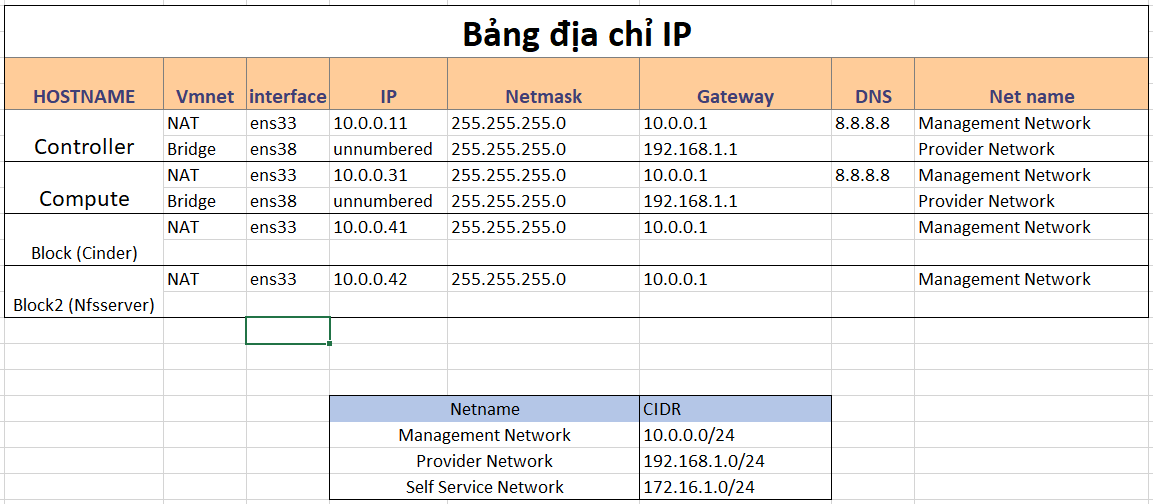
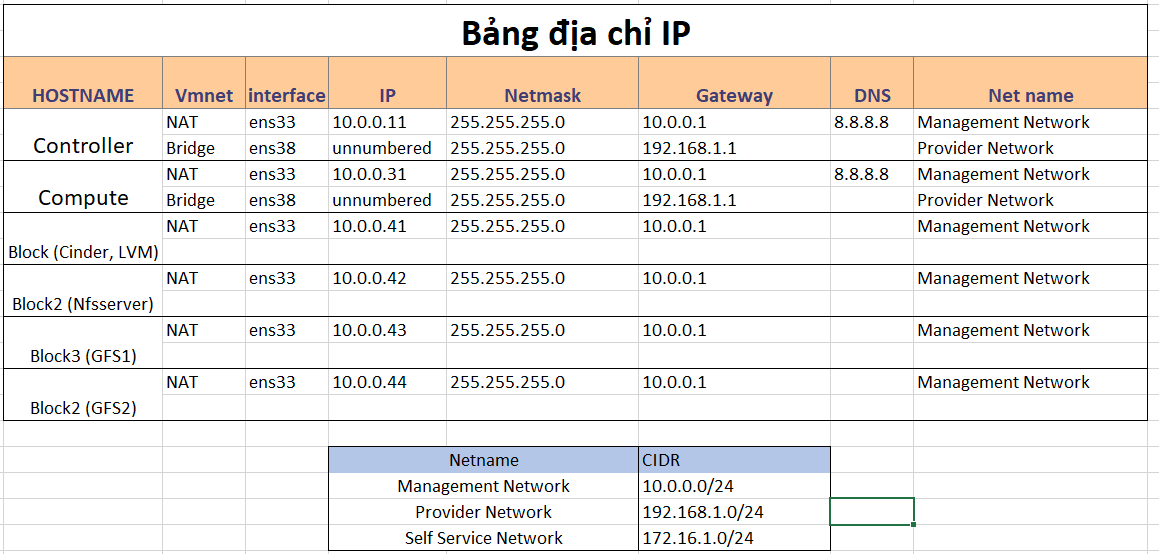
new file:   OpenStack/Docs/II.6.6. Multiple Storage back end.md 	modified:   "OpenStack/Images/III. D\341\273\261ng Openstack Stein/New Microsoft Excel Worksheet.xlsx" 	modified:   "OpenStack/Images/III. D\341\273\261ng Openstack Stein/Overview/3.png" 	modified:   OpenStack/README.md

Changed region(s): [[0.0, 0.0, 1.0, 1.0]]

diff --git a/OpenStack/Docs/II.6.6. Multiple Storage back end.md b/OpenStack/Docs/II.6.6. Multiple Storage back end.md
@@ -1,0 +1,225 @@
+# Multiple Storage back end
+
+# I. Mô hình
+<img src = "../Images/III. Dựng Openstack Stein/Overview/3.png">  
+
+<img src = "../Images/III. Dựng Openstack Stein/Overview/4.png">  
+
+# II. Cài đặt.
+-   Lưu ý : Trên mô hình phải được cài đặt sẵn OpenStack và Cinder, nếu chưa có tham khảo tại các phần trước.
+-   Với mô hình trên LVM đã được cài đặt và thiết lập trước đó, ở bài này chỉ giới thiệu về glusterfs và nfs.
+- NHỚ SỬA TẤT CẢ FILE `/etc/hosts` TRÊN TẤT CẢ CÁC NODE
+- 
+## II.1. Cấu hình trên node Block (Cinder)
+
+-   Cài đặt các gói  `nfs-common`  và  `glusterfs-client`  :
+	```sh
+	apt-get -y install nfs-common glusterfs-client 
+	```
+-   Dùng trình soạn thảo  `vi`  mở file cinder config `vi /etc/cinder/cinder.conf ` :
+
+	- Tại section [default] tìm và sửa dòng  `enabled_backends`  như sau :
+		```sh
+		enabled_backends = lvm,nfs,glusterfs
+		```
+	- Thêm section nfs với nội dung như sau :
+		```sh
+		[nfs]
+		volume_driver = cinder.volume.drivers.nfs.NfsDriver
+		volume_backend_name = NFS
+		nfs_shares_config = /etc/cinder/nfs_shares
+		nfs_mount_point_base = $state_path/mnt_nfs 
+		```
+		
+	- Thêm section [glusterfs] với nội dung như sau :
+		```sh
+		[glusterfs]
+		volume_driver = cinder.volume.drivers.glusterfs.GlusterfsDriver
+		volume_backend_name = GlusterFS
+		glusterfs_shares_config = /etc/cinder/glusterfs_shares
+		glusterfs_mount_point_base = $state_path/mnt_glusterfs
+		```
+-   Dùng trình soạn thảo  `vi`  mở file  `/etc/cinder/glusterfs_shares` thêm vào nội dung :
+	```sh
+	# create new : specify GlusterFS volumes
+
+	block3:/dang_gfs_shares
+
+	# testvol2 là trên của volume mà chúng ta sẽ tạo tạo GFS server.
+	```
+- **Tạo file `nfs_shares` trong `/etc/cinder` và ghi như sau. Đây là vị trí thư mục mà chúng ta sẽ share khi cấu hình NFS.:**
+	```sh
+	block2:/dang_nfs_shares
+	```  
+
+- **Gán quyền cho file `nfs_shares`**
+	```sh
+	# chown root:cinder /etc/cinder/nfs_shares
+	```  
+	```sh
+	# chmod 0640 /etc/cinder/nfs_shares
+	```  
+- **Gán quyền cho file `glusterfs_shares`**
+	```sh
+	# chown root:cinder /etc/cinder/glusterfs_shares
+	```  
+	```sh
+	# chmod 0640 /etc/cinder/glusterfs_shares
+	```  
+- **Restart lại dịch vụ**
+	```sh
+	service cinder-volume restart
+	```  
+
+## II.2. Cấu hình trên node Compute
+- **Cài đặt nfs và glusterfs**
+	```sh
+	apt-get -y install nfs-common glusterfs-client
+	```  
+- **Sửa file `/etc/nova/nova.conf`, thêm 2 dòng sau:**
+	```sh
+	osapi_volume_listen = 0.0.0.0
+	volume_api_class = nova.volume.cinder.API
+	```  
+- **Restart dịch vụ**
+	```sh
+	service nova-compute restart
+	```  
+## II.3 . Cấu hình trên Node gfs1 và gfs2 (thực hiện tương tự) 
+- **Chỉnh sửa file `/etc/hosts` thêm phân giải tên miền**
+- **Phần vùng ổ cứng**
+	```sh
+	fdisk /dev/sdb
+	```  
+	<img src = "../Images/II.6.5. Cấu hình Nfs Storage Backend/5.png">  
+- **Format phân vùng vừa tạo với định dạng xfs:**
+	```sh
+	mkfs.xfs /dev/sdb1
+	```  
+	<img src = "../Images/II.6.5. Cấu hình Nfs Storage Backend/6.png">  
+- **Mount partition vào thư mục /dang_gfs_shares  và tạo thư mục brick1:**
+	```sh
+	mount /dev/sdb1 /dang_gfs_shares && mkdir -p /dang_gfs_shares/brick1
+	```  
+- **Cài đặt `nfs server`**
+	```sh
+	apt-get -y install glusterfs-server
+	```  
+- **Sửa file `/etc/exports` cho phép mount thư mục /dang_gfs_shares đến dải 10.0.0.0/24**
+	```sh
+	/dang_gfs_shares 10.10.10.0/24(rw,no_root_squash)
+	```  
+- **Sửa file `/etc/fstab` để tự động mount mỗi lần mở máy**
+	```sh
+	/dev/sdb1 /dang_gfs_shares xfs defaults 0 0
+	```  
+### II.3.1. Tiếp tục thực hiện trên gfs2
+
+-   Tạo 1 pool storage với Server gfs1:
+	```sh
+	gluster peer probe block3
+	```
+-   Kiểm tra trạng thái của gluster pool
+	```sh
+	gluster peer status
+	```
+-   Khởi tạo volume :
+	```sh
+	gluster  volume create dang_gfs_shares replica 2 transport tcp  block3:/dang_gfs_shares/brick1  block 4:/dang_gfs_shares/brick1
+	```
+-   Start volume :
+	```sh
+	gluster volume start dang_gfs_shares
+	```  
+
+## II.4. Cấu hình trên Block2 node (Nfs)
+- **Chỉnh sửa file `/etc/hosts`**
+- **Phần vùng ổ cứng**
+	```sh
+	fdisk /dev/sdb
+	```  
+	<img src = "../Images/II.6.5. Cấu hình Nfs Storage Backend/5.png">  
+- **Format phân vùng vừa tạo với định dạng xfs:**
+	```sh
+	mkfs.xfs /dev/sdb1
+	```  
+	<img src = "../Images/II.6.5. Cấu hình Nfs Storage Backend/6.png">  
+- **Mount partition vào thư mục /dang_nfs_shares :**
+	```sh
+	mount /dev/sdb1 /dang_nfs_shares
+	```  
+- **Cài đặt `nfs server`**
+	```sh
+	apt-get -y install nfs-kernel-server
+	```  
+- **Sửa file `/etc/exports` cho phép mount thư mục /dang_nfs_shares đến dải 10.0.0.0/24**
+	```sh
+	/dang_nfs_shares 10.10.10.0/24(rw,no_root_squash)
+	```  
+	<img src = "../Images/II.6.5. Cấu hình Nfs Storage Backend/7.png">  
+- **Sửa file `/etc/fstab` để tự động mount mỗi lần mở máy**
+	```sh
+	/dev/sdb1 /dang_nfs_shares xfs defaults 0 0
+	```  
+	<img src = "../Images/II.6.5. Cấu hình Nfs Storage Backend/8.png">  
+- **Khởi động lài dịch vụ**
+	```sh
+	/etc/init.d/nfs-kernel-server restart
+   ```
+
+# III. Kiểm tra cấu hình
+# III.1. Kiểm tra cấu hình NFS
+- **Trên Node Block. kiểm tra thử xem đã nhận thư mục được share chưa**
+	```sh
+	df -h
+	```  
+	<img src = "../Images/II.6.5. Cấu hình Nfs Storage Backend/9.png">  
+- **Trên node Controller, kiểm tra các dịch vụ hoạt động tốt chưa**
+	```sh
+	openstack volume service list
+	```  
+	<img src = "../Images/II.6.5. Cấu hình Nfs Storage Backend/3.png">  
+
+- **Trên Node controller, tạo 1 volume type có tên là `nfstype`**
+	```sh
+	openstack volume type create nfstype
+	```  
+	<img src = "../Images/II.6.5. Cấu hình Nfs Storage Backend/1.png">  
+
+- **Set backend cho `nfstype` là dùng backend `nfs` có tên mà ta cấu hình ở trên là `nfsbackend`**
+	```sh
+	# cinder type-key nfstype set volume_backend_name=nfsbackend
+	```  
+	<img src = "../Images/II.6.5. Cấu hình Nfs Storage Backend/2.png">  
+- **Tạo 1 Volume có tên là `nfsvolume` dùng backend là `nfs` có type là `nfstype`**
+	```sh
+	# cinder create --volume_type nfstype --display_name nfsvolume 1
+	```  
+	<img src = "../Images/II.6.5. Cấu hình Nfs Storage Backend/4.png">  
+- **Xem thông tin volume vừa tạo trên node controller**
+	```sh
+	openstack volume list
+	```  
+	<img src = "../Images/II.6.5. Cấu hình Nfs Storage Backend/10.png">  
+	
+- **Để chi tiết hơn, ta vào Node Block2 (NFS), ls vào folder share (dang_nfs_shares) và xem volume vừa tạo ra có hay chưa.**
+	<img src = "../Images/II.6.5. Cấu hình Nfs Storage Backend/11.png">  
+
+## III.2. Kiểm tra cấu hình GFS
+- **Trên Node Block3 và 4. kiểm tra thử xem đã nhận thư mục được share chưa**
+	```sh
+	df -h
+	```  
+- **Trên node Controller, kiểm tra các dịch vụ hoạt động tốt chưa**
+	```sh
+	openstack volume service list
+	```    
+
+# REF
+[https://docs.openstack.org/cinder/train/admin/blockstorage-multi-backend.html](https://docs.openstack.org/cinder/train/admin/blockstorage-multi-backend.html)
+
+[https://1hosting.com.vn/glusterfs-la-gi-cau-hinh-glusterfs-nhu-nao-phan-2/](https://1hosting.com.vn/glusterfs-la-gi-cau-hinh-glusterfs-nhu-nao-phan-2/)
+
+
+    
+

diff --git a/OpenStack/README.md b/OpenStack/README.md
@@ -44,7 +44,7 @@
 - [Tăng thông lương Block Storage API](./Docs/II.6.3.%20Tăng%20thông%20lương%20Block%20Storage%20API.md)  
 - [Non-bootable và bootable volume](./Docs/II.6.4.%20Non-bootable%20và%20bootable%20volume.md)  
 - [Cấu hình Nfs Storage Backend](./Docs/II.6.5.%20Cấu%20hình%20Nfs%20Storage%20Backend.md)  
-
+- [Multiple Storage back end](./Docs/II.6.6.%20Multiple%20Storage%20back%20end.md)  
 ## Thực hành
 - [Cài đặt Cinder](./Docs/II.6.1.%20Cài%20đặt%20Cinder.md)  
 
